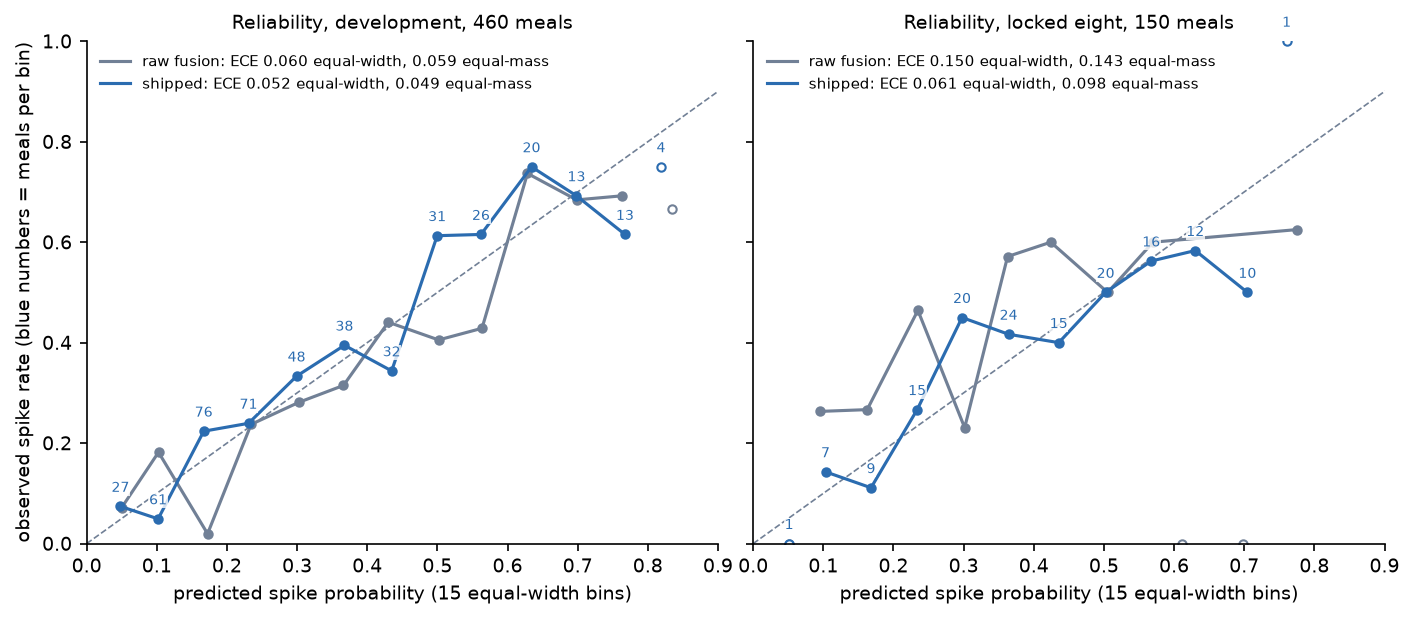
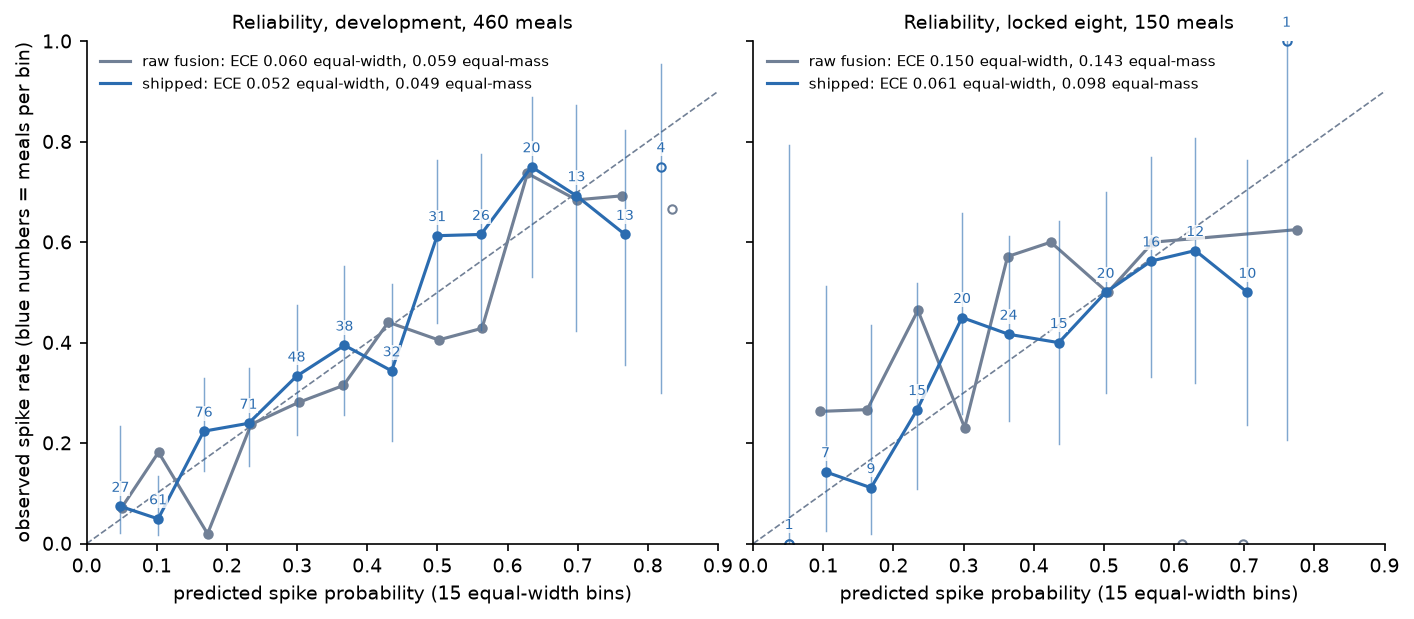
Figure 3 Wilson intervals per bin
Claude-Session: https://claude.ai/code/session_01U1MwL7j11MLBZ4KUvxGUHV

diff --git a/src/glimpse/figures.py b/src/glimpse/figures.py
@@ -140,7 +140,12 @@ def f3_reliability(plt, da: pd.DataFrame) -> dict:
                     label=f"{label}: ECE {ece_w:.3f} equal-width, {ece:.3f} equal-mass")  # fmt: skip
             for m_, o_, n_ in rows:  # hollow marker: a bin with fewer than 5 meals
                 ax.plot([m_], [o_], "o", ms=4, color=c, mfc=c if n_ >= 5 else "white")
-            if col == "risk":
+            if col == "risk":  # 95% Wilson interval per bin for the shipped risk (26 Nov)
+                for m_, o_, n_ in rows:
+                    z, den = 1.96, 1 + 1.96**2 / n_
+                    mid = (o_ + z**2 / (2 * n_)) / den
+                    half = z * np.sqrt(o_ * (1 - o_) / n_ + z**2 / (4 * n_**2)) / den
+                    ax.plot([m_, m_], [mid - half, mid + half], color=c, lw=0.7, alpha=0.6)
                 for m, o, n in rows:
                     ax.annotate(
                         str(n),

diff --git a/docs/final_report.md b/docs/final_report.md
@@ -192,7 +192,7 @@ Within every fold Platt AUROC equals raw; the pooled 0.714 mixes five fold maps.
 | label threshold 30 / 50 / 70 mg/dL: AUROC (spike rate) | 0.738 (57%) / 0.762 (33%) / 0.794 (19%) |
 | photo arm with the photo masked vs no-meal arm (wiring check) | +0.002 (−0.023, +0.025) |
 
-![Figure 3: reliability in the registered binning, development and locked (15 equal-width bins, meals per bin printed, hollow markers for bins under 5 meals; equal-mass bins hold 30 or 31 development meals, 10 locked)](../outputs/figures/f3_reliability.png)
+![Figure 3: reliability in the registered binning, development and locked (15 equal-width bins, meals per bin printed, hollow markers for bins under 5 meals, thin bars the 95% Wilson interval of each shipped bin; equal-mass bins hold 30 or 31 development meals, 10 locked)](../outputs/figures/f3_reliability.png)
 
 | calibration | development, shipped | locked, shipped | served, Platt only: development / locked |
 |---|---|---|---|

diff --git a/docs/changelog.md b/docs/changelog.md
@@ -188,3 +188,4 @@ Added at the close: the within-person drop has a person-bootstrap interval, −0
 helps between people (report §3; report_metrics.json `within_person`).
 Also at the close: signal 2b (rolling AUROC below the locked value) added to the monitoring table, labelled
 circular because its threshold is the locked AUROC itself (outputs/monitoring/replay.json `summary`).
+Figure 3 shows a 95% Wilson interval for each shipped bin, so small bins are not over-read.
